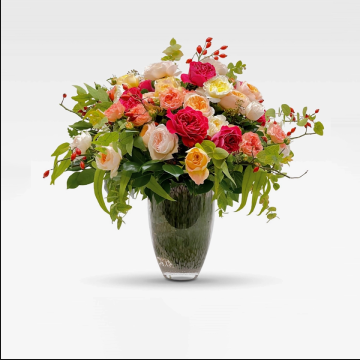
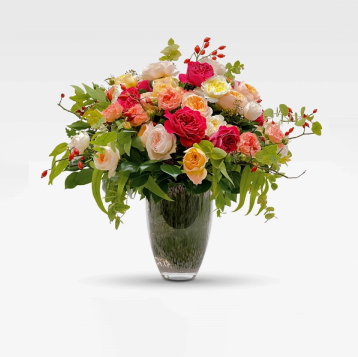
correcting images and adding blur

Changed region(s): [[0.1229, 0.0924, 0.9218, 0.8011], [0.0, 0.986, 1.0, 1.0], [0.4609, 0.0924, 0.4916, 0.1232]]

diff --git a/pages/products/[id].vue b/pages/products/[id].vue
@@ -75,7 +75,7 @@ let quantity = defineModel('quantity', {
     default: 1,
 });
 const userChoice = defineModel('userChoice', {
-    default: '0',
+    default: '1',
     get(val) {
         return +val;
     }
@@ -85,11 +85,12 @@ const userChoice = defineModel('userChoice', {
 
 <template>
     <title>{{ product.name }}</title>
-    <div class="wrapper grid gap-[1px] bg-black">
+    <div class="wrapper grid gap-[1px] bg-black bg-[url]">
         <Header />
             <main class="grid grid-cols-2 bg-black gap-[1px]">
-                <div class="main__image relative w-100 max-h-[100vh] !bg-gray">
-                    <NuxtImg :src="product.images" :alt="product.name" class=""></NuxtImg>
+                <div class="main__image max-h-[80vh] relative w-100 overflow-hidden">
+                    <div class="main__image_bg absolute w-[120%] h-[120%]" :style="`background-image: url('../${product.images}') !important`"></div>
+                    <NuxtImg :src="product.images" :alt="product.name" class="w-auto"></NuxtImg>
                 </div>
                 <div class="main__info p-[40px] flex flex-col justify-between">
                     <div class="main__breadcrumbs uppercase">
@@ -114,11 +115,11 @@ const userChoice = defineModel('userChoice', {
                             <span class="font-bold">Хорошо сочетается с:</span>
                             <span class="font-gray">Ваза не входит в комплеткт</span>
                         </div>
-                        <div class="reviews__wrapper mt-[15px] flex text-[24px]">
+                        <div class="reviews__wrapper mt-[15px] flex w-full text-[24px]">
                             <Carousel :value="recommendedProducts" :numVisible="5" :numScroll="2">
                                     <template #item="slotProps">
                                         <NuxtLink :to="'/products/' + slotProps.data.id">
-                                            <div class="border border-surface-200 dark:border-surface-700 rounded mx-1">
+                                            <div class="border border-surface-200 dark:border-surface-700 rounded mx-1 h-[200px] w-[150px]">
                                                 <div class="mb-4">
                                                     <div class="relative mx-auto">
                                                         <NuxtImg :src="'/' + slotProps.data.cardImageUrl" :alt="slotProps.data.name" class="rounded" />
@@ -186,11 +187,19 @@ const userChoice = defineModel('userChoice', {
     input {
         outline: 0;
     }
-
+    .main__image_bg {
+        filter: blur(5px);
+        background-size: cover;
+        background-position: center;
+        left: -5%;
+        top: -5%;
+        
+    }
     .main__image img {
         height: 100%;
         position: absolute;
         left: 50%;
         transform: translate(-50%,0);
+        z-index: 2;
     }
 </style>
